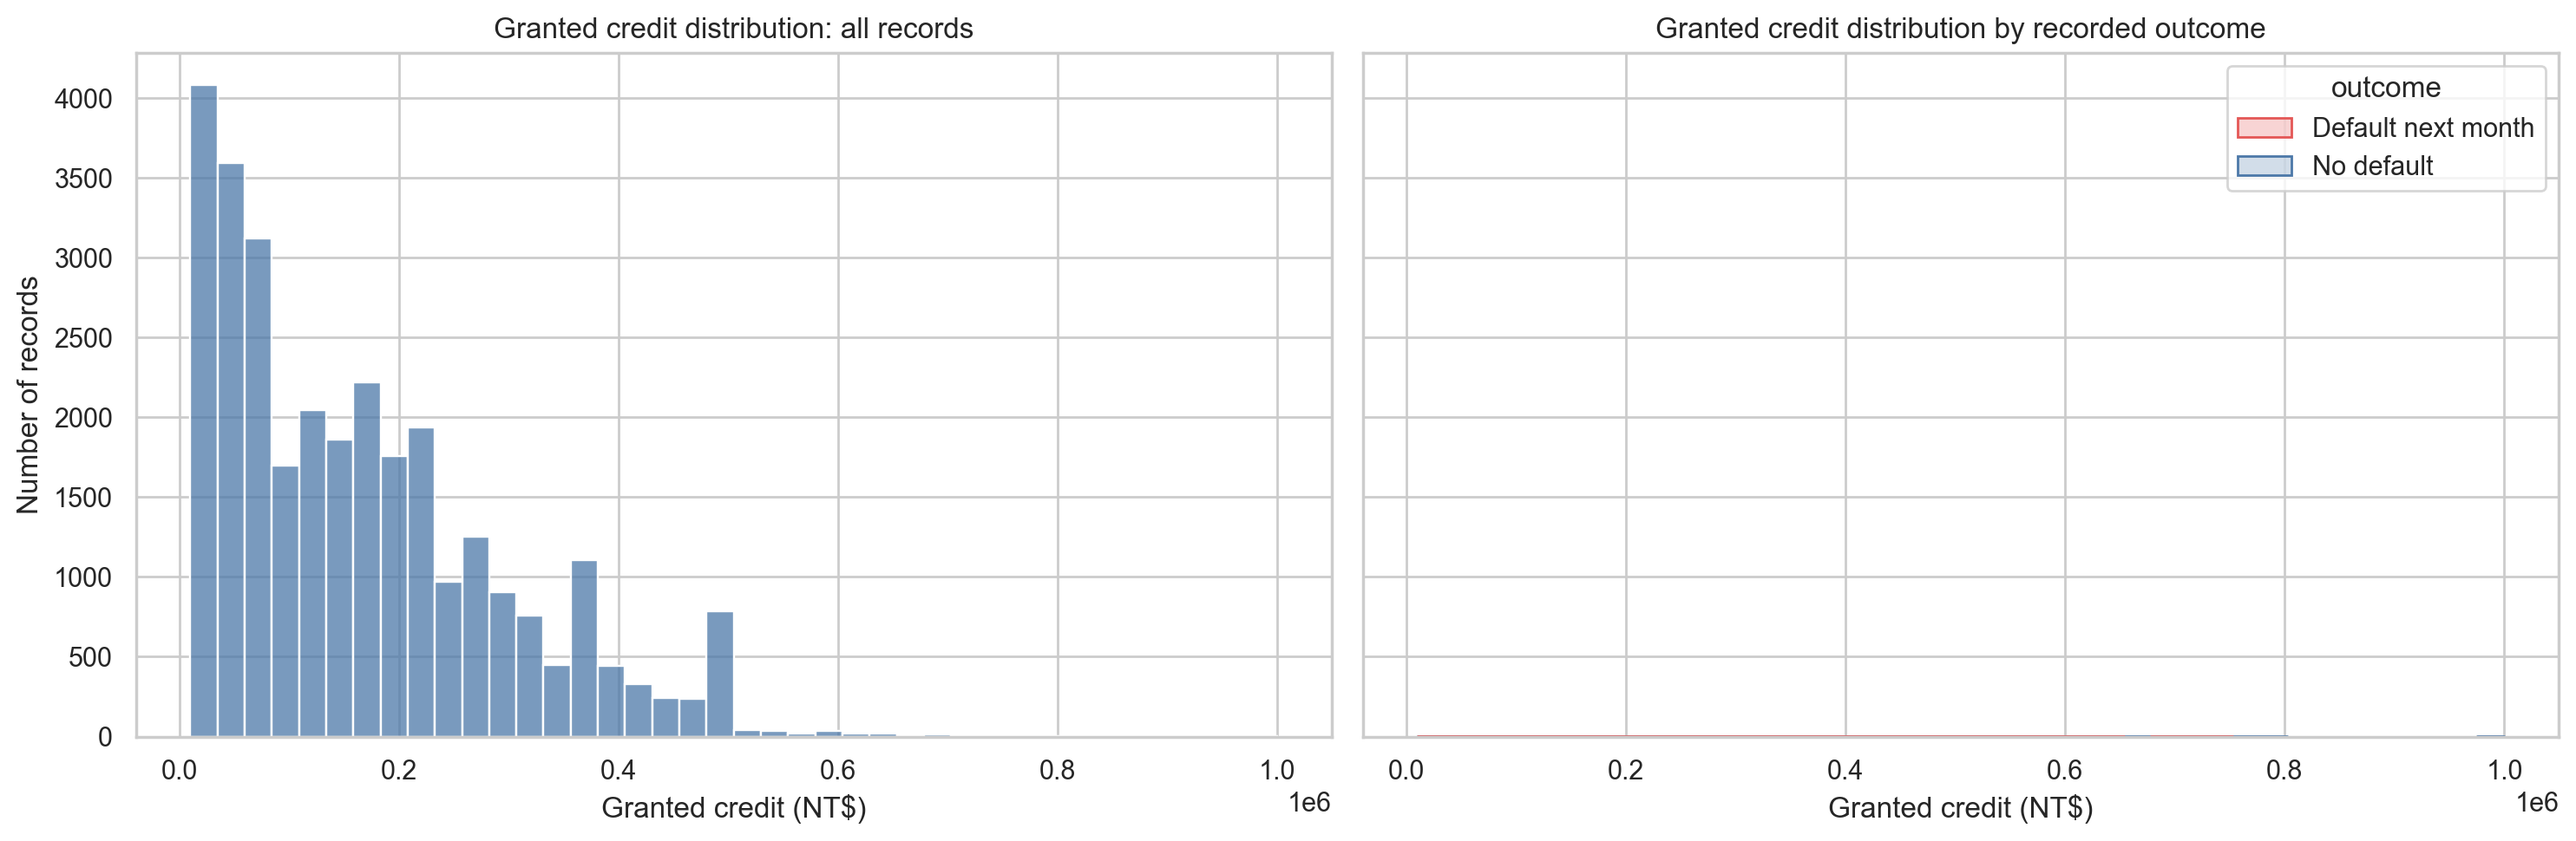
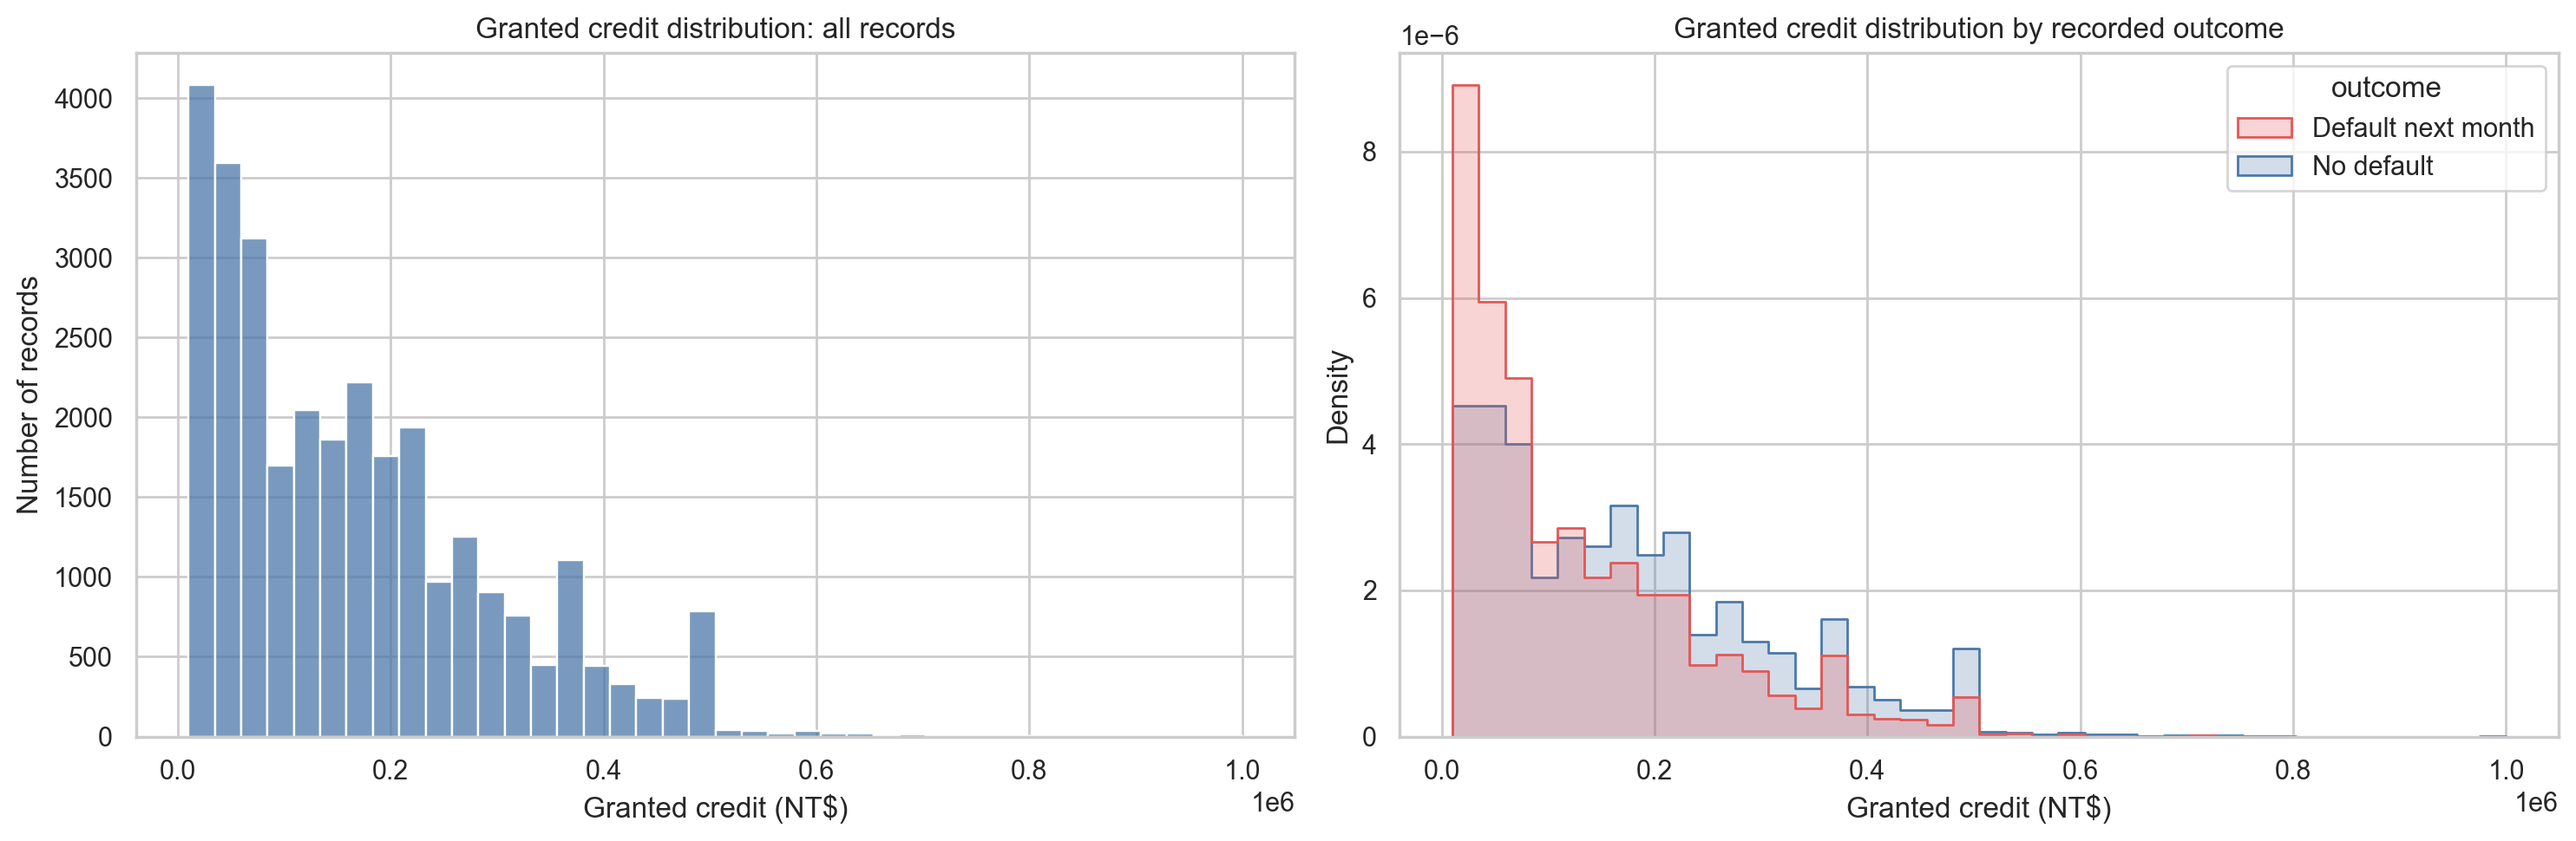
Polish dashboard presentation and report visuals

diff --git a/app.py b/app.py
@@ -12,9 +12,18 @@ st.set_page_config(page_title="Credit Risk Analytics", page_icon="📊", layout=
 
 st.markdown("""
 <style>
-    .stApp { background: #f8fafc; }
-    [data-testid="stMetric"] { background: #ffffff; border-left: 4px solid #0f766e; padding: 12px; border-radius: 8px; }
-    h1, h2, h3 { color: #0f2742; }
+    .stApp { background: #f5f8fc; color: #172b4d; }
+    .block-container { max-width: 1440px; padding-top: 2.3rem; padding-bottom: 3rem; }
+    [data-testid="stMetric"] { background: #ffffff; border: 1px solid #e1e8f0; border-top: 4px solid #0f766e; padding: 1rem; border-radius: 12px; box-shadow: 0 2px 8px rgba(15, 39, 66, .05); }
+    [data-testid="stMetricLabel"] { color: #52657d; font-size: .86rem; }
+    [data-testid="stMetricValue"] { color: #102a43; }
+    h1, h2, h3 { color: #102a43; letter-spacing: -.02em; }
+    .portfolio-kicker { color: #0f766e; font-size: .9rem; font-weight: 700; letter-spacing: .08em; text-transform: uppercase; }
+    .portfolio-hero { background: linear-gradient(115deg, #102a43, #174e63); border-radius: 16px; color: #ffffff; padding: 1.7rem 2rem; margin: .35rem 0 1.6rem; }
+    .portfolio-hero h1 { color: #ffffff; margin: 0; }
+    .portfolio-hero p { color: #d9edf5; margin: .55rem 0 0; font-size: 1.05rem; }
+    .section-note { color: #52657d; font-size: .95rem; }
+    [data-testid="stDataFrame"] { border: 1px solid #e1e8f0; border-radius: 10px; overflow: hidden; }
 </style>
 """, unsafe_allow_html=True)
 
@@ -61,8 +70,13 @@ with st.sidebar:
     )
     st.caption("Captured defaults are historical observed outcomes—not prevented defaults or financial savings.")
 
-st.title("Credit Risk Analytics & Explainable Default Prediction")
-st.caption("Read-only educational portfolio dashboard • historical data • no automated decisioning")
+st.markdown("""
+<div class="portfolio-kicker">Educational portfolio dashboard</div>
+<div class="portfolio-hero">
+  <h1>Credit Risk Analytics &amp; Explainable Default Prediction</h1>
+  <p>Historical-data analysis • calibrated risk ranking • no automated lending decisions</p>
+</div>
+""", unsafe_allow_html=True)
 
 tabs = st.tabs([
     "Project Overview", "EDA & Portfolio Patterns", "Model Performance & Calibration",
@@ -120,8 +134,8 @@ with tabs[2]:
         baseline = comparison["baseline"]
         engineered = comparison["engineered"]
         table = pd.DataFrame([
-            {"Feature set": "Baseline", "Features": baseline["feature_count"], "Selected model": baseline["selected_model"], "Validation ROC-AUC": baseline["validation_selected"]["roc_auc"], "Test ROC-AUC": baseline["test_selected"]["roc_auc"], "Test average precision": baseline["test_selected"]["average_precision"], "Test Brier": baseline["test_selected"]["brier_score"]},
-            {"Feature set": "Engineered", "Features": engineered["feature_count"], "Selected model": engineered["selected_model"], "Validation ROC-AUC": engineered["validation_selected"]["roc_auc"], "Test ROC-AUC": engineered["test_selected"]["roc_auc"], "Test average precision": engineered["test_selected"]["average_precision"], "Test Brier": engineered["test_selected"]["brier_score"]},
+            {"Feature set": "Baseline", "Feature count": baseline["feature_count"], "Selected model": baseline["selected_model"].upper(), "Validation ROC-AUC": baseline["validation_selected"]["roc_auc"], "Test ROC-AUC": baseline["test_selected"]["roc_auc"], "Test average precision": baseline["test_selected"]["average_precision"], "Test Brier score": baseline["test_selected"]["brier_score"]},
+            {"Feature set": "Engineered", "Feature count": engineered["feature_count"], "Selected model": engineered["selected_model"].upper(), "Validation ROC-AUC": engineered["validation_selected"]["roc_auc"], "Test ROC-AUC": engineered["test_selected"]["roc_auc"], "Test average precision": engineered["test_selected"]["average_precision"], "Test Brier score": engineered["test_selected"]["brier_score"]},
         ])
         st.dataframe(table.style.format({column: "{:.4f}" for column in table.columns[3:]}), use_container_width=True, hide_index=True)
         st.info("The engineered feature set improved validation ROC-AUC by only 0.0008, below the pre-specified 0.005 materiality margin. The simpler baseline therefore remained final.")
@@ -149,8 +163,9 @@ with tabs[3]:
         review = pd.DataFrame(rows)
         if not review.empty:
             display = review[["review_fraction", "accounts_reviewed", "observed_defaults_captured", "recall_of_observed_defaults", "precision_among_reviewed"]].copy()
-            display["review_fraction"] = display["review_fraction"].map(lambda value: f"Top {value:.0%}")
-            st.dataframe(display.style.format({"recall_of_observed_defaults": "{:.2%}", "precision_among_reviewed": "{:.2%}"}), hide_index=True, use_container_width=True)
+            display.columns = ["Review capacity", "Accounts reviewed", "Historical defaults captured", "Default capture", "Precision in queue"]
+            display["Review capacity"] = display["Review capacity"].map(lambda value: f"Top {value:.0%}")
+            st.dataframe(display.style.format({"Default capture": "{:.2%}", "Precision in queue": "{:.2%}"}), hide_index=True, use_container_width=True)
         top10 = review_row(rows)
         if top10:
             st.success(f"Demonstration policy: top 10% ranked accounts — {top10['accounts_reviewed']:,} reviewed; {top10['observed_defaults_captured']:,} historical defaults captured; {top10['recall_of_observed_defaults']:.2%} capture.")
@@ -159,13 +174,17 @@ with tabs[3]:
         st.write("These validation-only examples use transparent units: false positive × 1 plus false negative × 5 or × 10. They are not real banking costs, savings, or a rule for selecting a threshold.")
         thresholds = pd.DataFrame(calibration.get("validation_thresholds", []))
         if not thresholds.empty:
-            st.dataframe(thresholds[["threshold", "accounts_flagged", "precision", "recall", "false_positives", "false_negatives", "illustrative_cost_missed_5x_review", "illustrative_cost_missed_10x_review"]].style.format({"threshold": "{:.2f}", "precision": "{:.2%}", "recall": "{:.2%}"}), hide_index=True, use_container_width=True)
+            threshold_display = thresholds[["threshold", "accounts_flagged", "precision", "recall", "false_positives", "false_negatives", "illustrative_cost_missed_5x_review", "illustrative_cost_missed_10x_review"]].copy()
+            threshold_display.columns = ["Threshold", "Accounts flagged", "Precision", "Recall / capture", "False positives", "Missed defaults", "Illustrative cost (5×)", "Illustrative cost (10×)"]
+            with st.expander("View the validation threshold sensitivity table"):
+                st.dataframe(threshold_display.style.format({"Threshold": "{:.2f}", "Precision": "{:.2%}", "Recall / capture": "{:.2%}"}), hide_index=True, use_container_width=True)
         show_figure("12_validation_threshold_tradeoff.png", "Validation threshold trade-offs")
         show_figure("14_validation_cost_sensitivity.png", "Illustrative validation cost sensitivity")
 
 with tabs[4]:
     st.header("Explainability")
     st.caption("SHAP explains learned model associations in the frozen XGBoost model. It is not causality, certainty, fairness proof, or a decision instruction.")
+    st.info("Feature guide: `X6` is the latest recorded repayment-status code, `X1` is granted credit, `X12`–`X17` are bill amounts, and `X18`–`X23` are payment amounts.")
     left, right = st.columns(2)
     with left: show_figure("15_shap_global_beeswarm.png", "Global SHAP beeswarm: direction and size of sampled raw-model contributions")
     with right: show_figure("16_shap_global_mean_absolute_bar.png", "Global mean absolute SHAP values")
@@ -184,8 +203,8 @@ with tabs[4]:
             st.subheader(case_titles.get(name, name.replace("_", " ").title()))
             cols = st.columns(3)
             cols[0].metric("Calibrated historical risk", f"{case['calibrated_risk_probability']:.2%}")
-            cols[1].metric("Review status", "Top-10% queue" if "top 10%" in case["review_queue_status"] else "Outside queue")
-            cols[2].metric("Recorded outcome", "Default" if "recorded default" in case["actual_historical_outcome"] else "No recorded default")
+            cols[1].metric("Review status", "Top-10% queue" if case["review_queue_status"] == "top 10% review queue" else "Outside top-10% queue")
+            cols[2].metric("Recorded outcome", "Default" if case["actual_historical_outcome"] == "recorded default next month" else "No recorded default")
             show_figure(f"17_shap_local_{name}.png", "De-identified local SHAP waterfall: raw-model contributions only")
     st.warning("No person can be identified here. These three fixed examples are teaching cases, not profiles to copy into a real decision process.")
 

diff --git a/src/fairness_audit.py b/src/fairness_audit.py
@@ -93,14 +93,16 @@ def make_figures(metrics):
     performance_path = figures / "19_fairness_performance_calibration_comparison.png"
     plt.savefig(performance_path, dpi=200, bbox_inches="tight"); plt.close()
 
-    fig, ax = plt.subplots(figsize=(14, 6))
-    labels = [f"{g}: {s}" for g, s in zip(frame.audit_group, frame.subgroup)]
-    bars = ax.bar(labels, frame.top_10_percent_capture_rate, color="#54A24B")
-    for bar, value in zip(bars, frame.top_10_percent_capture_rate):
-        ax.text(bar.get_x() + bar.get_width()/2, value, f"{value:.1%}", ha="center", va="bottom", fontsize=8)
-    ax.set(title="Capture of observed defaults within the fixed global top-10% review queue", ylabel="Within-subgroup capture rate", ylim=(0, min(1, frame.top_10_percent_capture_rate.max() * 1.25)))
-    ax.tick_params(axis="x", rotation=55)
-    plt.tight_layout()
+    fig, axes = plt.subplots(2, 2, figsize=(15, 10), constrained_layout=True)
+    for ax, group in zip(axes.flat, groups):
+        subset = frame[frame.audit_group == group].copy()
+        labels = subset.subgroup.str.replace(" (documented code ", "\n(code ", regex=False)
+        bars = ax.barh(labels, subset.top_10_percent_capture_rate, color="#0F766E")
+        for bar, value in zip(bars, subset.top_10_percent_capture_rate):
+            ax.text(value + 0.008, bar.get_y() + bar.get_height()/2, f"{value:.1%}", va="center", fontsize=9)
+        ax.set(title=group.replace("Recorded ", ""), xlabel="Capture of observed defaults", xlim=(0, min(0.55, subset.top_10_percent_capture_rate.max() * 1.35)))
+        ax.xaxis.set_major_formatter(lambda value, _: f"{value:.0%}")
+    fig.suptitle("Fixed global top-10% review queue: subgroup default capture", fontsize=16, fontweight="bold")
     review_path = figures / "20_fairness_top10_review_capture.png"
     plt.savefig(review_path, dpi=200, bbox_inches="tight"); plt.close()
     return size_path, performance_path, review_path
